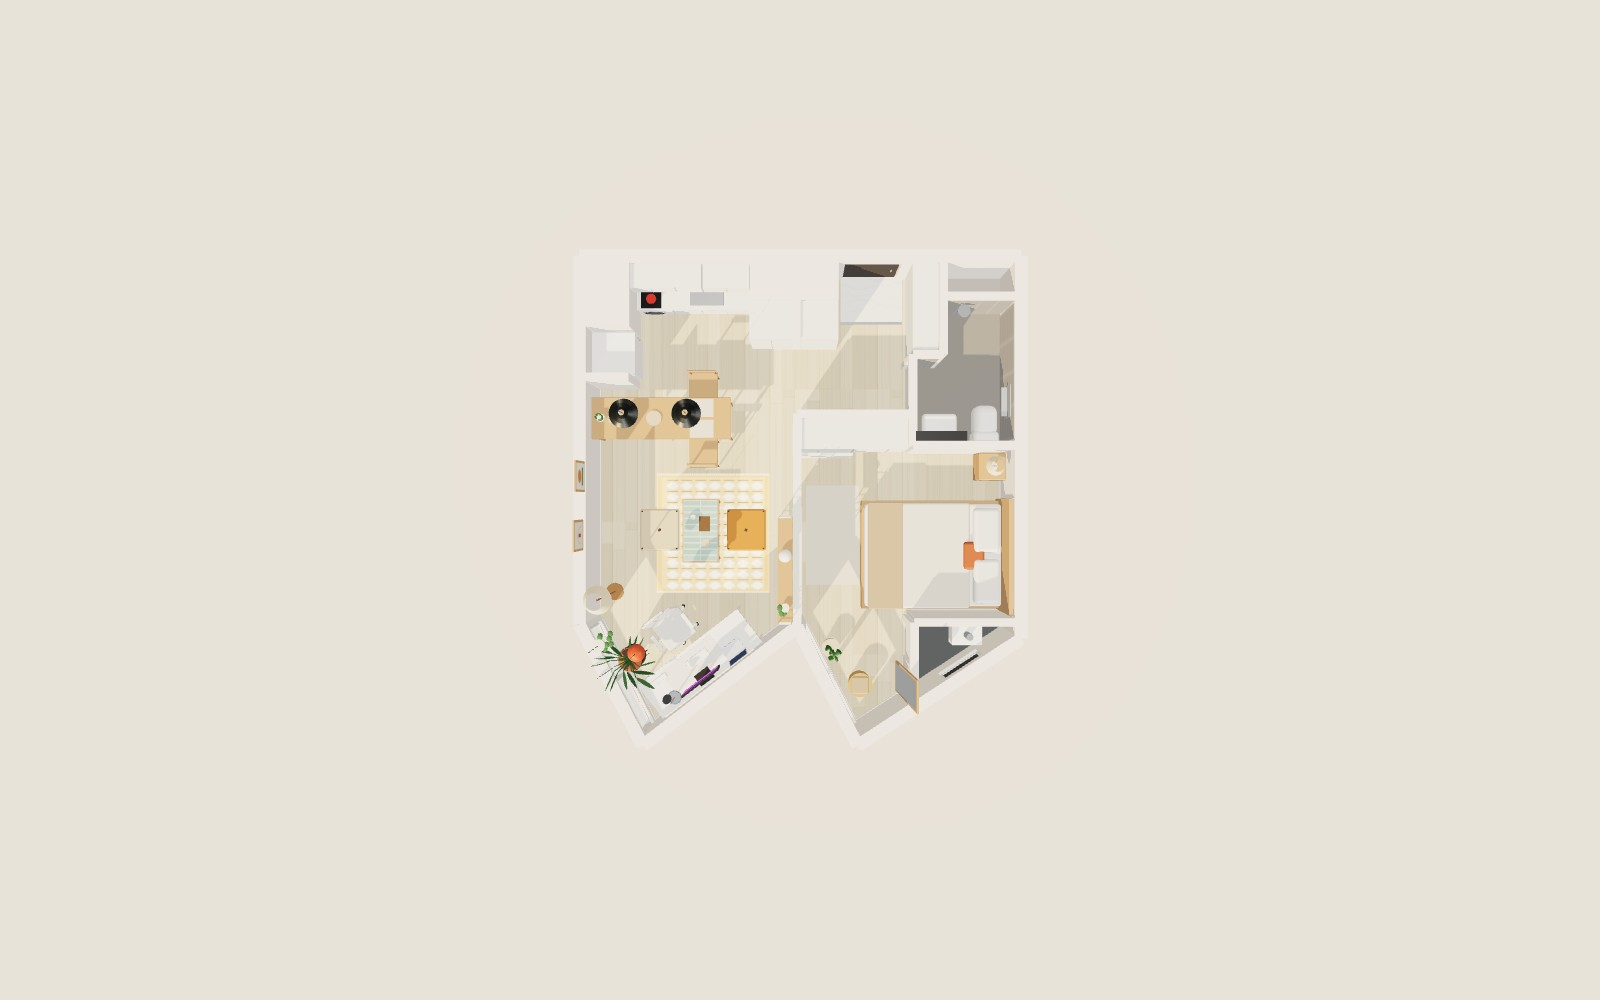
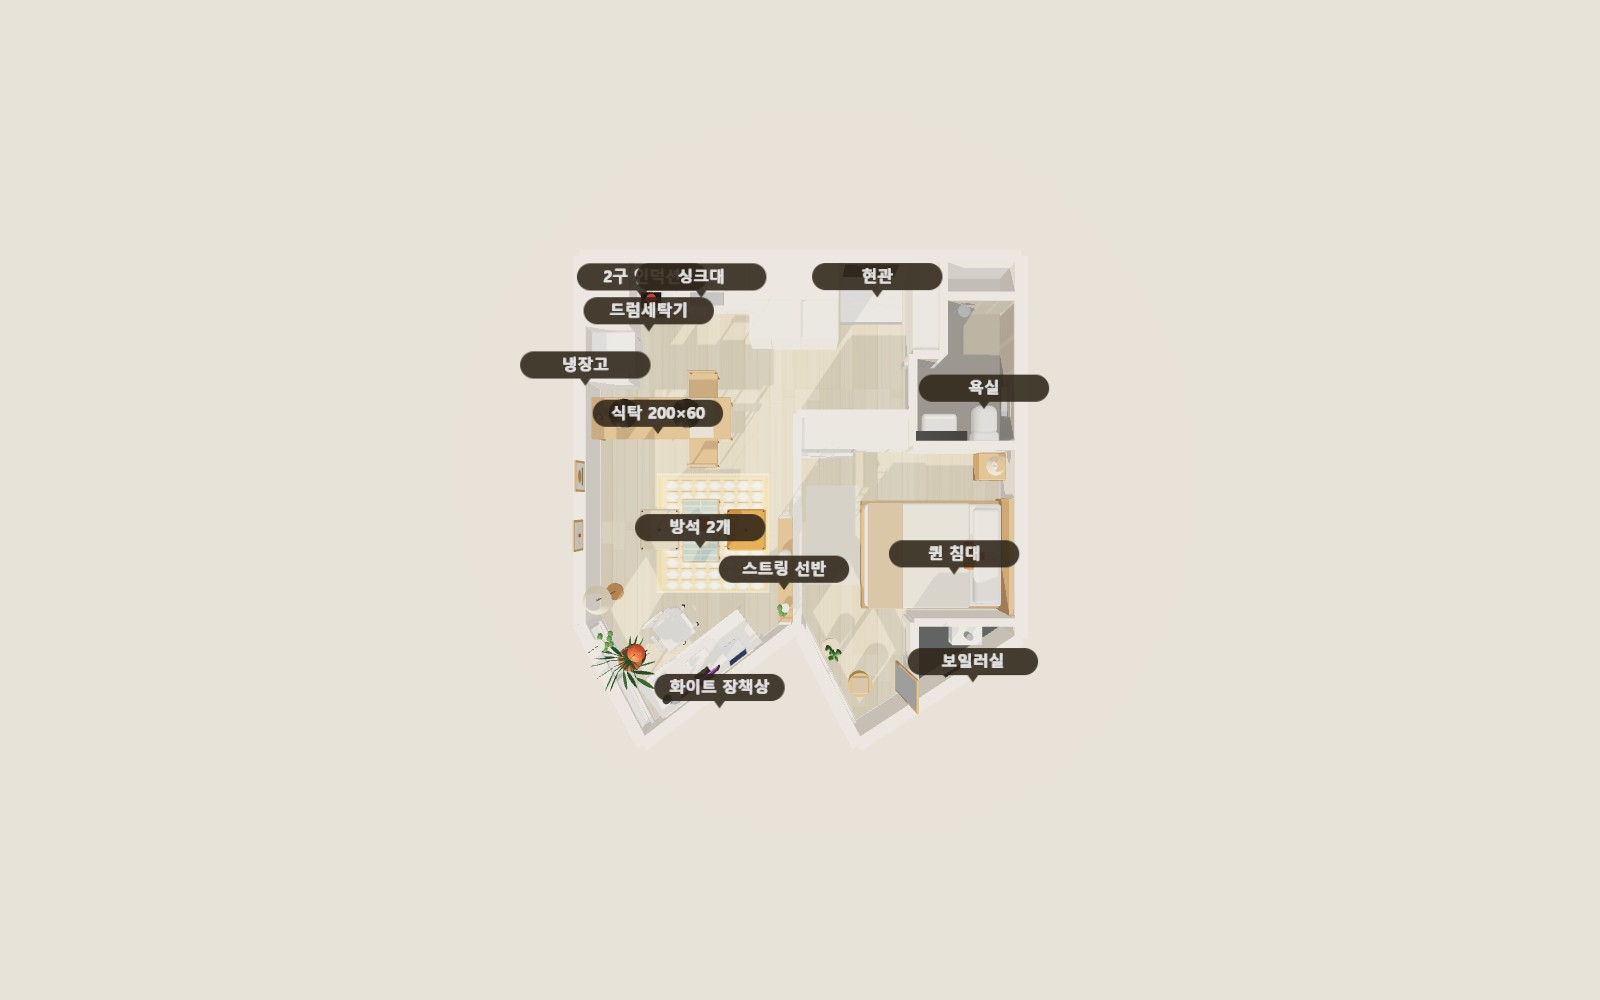
Show built-in drum washer clearly, add kitchen view and labels

diff --git a/index.html b/index.html
@@ -39,7 +39,8 @@
     <button data-v="all" class="on">전체</button>
     <button data-v="living">거실</button>
     <button data-v="desk">책상</button>
-    <button data-v="dining">식탁·주방</button>
+    <button data-v="kitchen">주방·세탁기</button>
+    <button data-v="dining">식탁</button>
     <button data-v="bed">침실</button>
     <button data-v="plan">위에서 보기</button>
   </div>
@@ -47,6 +48,7 @@
     <button id="day" class="on">낮</button>
     <button id="night">밤</button>
     <button id="walls">벽 낮추기</button>
+    <button id="labels" class="on">이름표</button>
   </div>
 </div>
 <div id="legend" class="panel">
@@ -67,7 +69,7 @@
   · 퀸 침대 150×200 (헤드 오른쪽 벽, 아래벽 쪽으로 붙임 → 붙박이장 앞 68cm)<br>
   · 협탁 + 플리츠 스탠드, 러그, 전신거울, 화분
   <div class="sec">기본 설비 (도면 기준)</div>
-  · 주방: 흰 하부장·쿼츠 상판·대리석풍 벽타일, 2구 인덕션 아래 드럼세탁기, 흰 2도어 냉장고<br>· 현관 대리석 타일, 흰 걸레받이·몰딩, 천장 환기장치, 보일러실(루버창)<br>· (블로그 실사진 36형 기준)
+  · 주방: 흰 하부장·쿼츠 상판·대리석풍 벽타일, 2구 인덕션 아래 <b>드럼세탁기 빌트인</b>, 흰 2도어 냉장고<br>· 현관 대리석 타일, 흰 걸레받이·몰딩, 천장 환기장치, 보일러실(루버창)<br>· (블로그 실사진 36형 기준)
 </div>
 <div id="note" class="panel">
   마우스 드래그 = 회전 · 휠 = 확대 · 오른쪽 드래그 = 이동<br>
@@ -419,10 +421,13 @@ wall(746, 224, 746, 340, IN);                                                   
   for (const sx of [-29, 13, 50]) B(g, 0.6, 74, 0.6, mat.seam, sx, 8, 53.4);
   B(g, 174, 8, 1, M("#e6e2da"), 0, 0, 50);
   // 드럼세탁기 (인덕션 아래, 왼쪽 끝)
-  B(g, 56, 80, 1, mat.whiteGloss, -58, 3, 53.6);
-  const dr = CY(g, 14, 14, 2, M("#2f3a40", { roughness: 0.08, metalness: 0.3 }), -58, 34, 54.6, 32); dr.rotation.x = Math.PI / 2;
-  const rg = CY(g, 16.5, 16.5, 1.2, mat.chrome, -58, 34.4, 54.2, 32); rg.rotation.x = Math.PI / 2;
-  B(g, 50, 6, 0.8, M("#e9e9e9"), -58, 72, 54.2);
+  B(g, 58, 82, 4, M("#fdfdfc", { roughness: 0.25 }), -58, 2, 55, 1.5);                        // 세탁기 본체 앞면 (상부장보다 3cm 돌출)
+  const rg = CY(g, 19, 19, 2, mat.chrome, -58, 28, 57.5, 40); rg.rotation.x = Math.PI / 2;    // 도어 링
+  const dr = CY(g, 15.5, 15.5, 2.4, M("#26323a", { roughness: 0.05, metalness: 0.4, transparent: true, opacity: 0.92 }), -58, 27.8, 58.2, 40); dr.rotation.x = Math.PI / 2; // 유리
+  B(g, 54, 9, 1, M("#eeeeee", { roughness: 0.4 }), -58, 70, 57.2);                            // 조작부
+  const dial = CY(g, 3.2, 3.2, 1.6, mat.chrome, -70, 71, 58, 24); dial.rotation.x = Math.PI / 2; // 다이얼
+  B(g, 14, 3.5, 0.6, M("#1c2a33", { roughness: 0.2 }), -50, 72.7, 57.9);                      // 표시창
+  B(g, 8, 3, 2, M("#e9e9e9"), -40, 6, 57);                                                      // 세제 투입구 아래 필터 덮개
   // 쿼츠 상판 + 대리석풍 벽타일
   B(g, 176, 4, 55, mat.quartz, 0, 84, 27.5);
   const bs = new THREE.Mesh(new THREE.PlaneGeometry(cm(174), cm(62)), mat.stone); bs.position.set(0, cm(119), cm(0.5)); g.add(bs);
@@ -765,6 +770,22 @@ railing(441, 742, 530, 912, 30); railing(747, 745, 832, 912, 40);
   for (const [x, y] of [[620, 560], [900, 560], [700, 360]]) { const d = new THREE.Mesh(new THREE.CylinderGeometry(cm(5), cm(5), cm(2), 20), M("#fbfbfb")); d.position.set(cm(x), cm(H - 1), cm(y)); scene.add(d); ceils.push(d); }
 }
 
+// ---------- 이름표 (가전·가구) ----------
+const labels = [];
+function label(text, x, y, h) {
+  const c = document.createElement("canvas"); c.width = 256; c.height = 72;
+  const g = c.getContext("2d");
+  g.fillStyle = "rgba(61,52,40,0.88)"; g.beginPath(); g.roundRect(4, 4, 248, 52, 26); g.fill();
+  g.beginPath(); g.moveTo(118, 56); g.lineTo(138, 56); g.lineTo(128, 70); g.fill();
+  g.fillStyle = "#fff"; g.font = "bold 30px 'Malgun Gothic', sans-serif"; g.textAlign = "center"; g.textBaseline = "middle"; g.fillText(text, 128, 31);
+  const t = new THREE.CanvasTexture(c); t.colorSpace = THREE.SRGBColorSpace;
+  const sp = new THREE.Sprite(new THREE.SpriteMaterial({ map: t, depthTest: false, transparent: true, sizeAttenuation: false }));
+  sp.scale.set(0.14, 0.039, 1); sp.position.set(cm(x), cm(h), cm(y)); sp.renderOrder = 10; scene.add(sp); labels.push(sp);
+}
+label("드럼세탁기", 534, 300, 72); label("2구 인덕션", 532, 262, 118); label("냉장고", 466, 392, 175); label("싱크대", 614, 262, 118);
+label("보일러실", 985, 790, 150); label("화이트 장책상", 640, 830, 125); label("식탁 200×60", 552, 450, 105);
+label("방석 2개", 605, 612, 45); label("퀸 침대", 970, 648, 85); label("스트링 선반", 730, 662, 190); label("현관", 858, 262, 120); label("욕실", 1000, 420, 150);
+
 // ---------- 조명 ----------
 const hemi = new THREE.HemisphereLight("#fff4e2", "#cdb89a", 0.45); scene.add(hemi);
 const amb = new THREE.AmbientLight("#ffffff", 0.25); scene.add(amb);
@@ -798,6 +819,7 @@ const views = {
   living: { pos: [728, 452, 168], tgt: [505, 800, 70] },
   desk:   { pos: [585, 655, 160], tgt: [665, 845, 88] },
   dining: { pos: [705, 610, 160], tgt: [500, 430, 75] },
+  kitchen: { pos: [680, 395, 150], tgt: [545, 255, 55] },
   bed:    { pos: [762, 712, 172], tgt: [1010, 560, 55] },
   plan:   { pos: [751, 568, 1450], tgt: [751, 567, 0], low: true },
 };
@@ -816,6 +838,7 @@ document.querySelectorAll("#views button").forEach((b) => b.addEventListener("cl
 document.getElementById("day").onclick = () => setMode(false);
 document.getElementById("night").onclick = () => setMode(true);
 document.getElementById("walls").onclick = () => setLow(!low);
+document.getElementById("labels").onclick = (e) => { const on = !e.target.classList.contains("on"); e.target.classList.toggle("on", on); labels.forEach((l) => (l.visible = on)); };
 
 function resize() {
   const w = window.innerWidth, h = window.innerHeight;

diff --git a/gallery.html b/gallery.html
@@ -7,6 +7,7 @@
 <figure><figcaption>거실 · 꺾인 벽 책상</figcaption><img src="images/3_living.jpg"></figure>
 <figure><figcaption>화이트 장책상 180cm</figcaption><img src="images/4_desk.jpg"></figure>
 <figure><figcaption>식탁 200×60 (왼쪽 벽에 붙여 길게) · 의자 2</figcaption><img src="images/5_dining.jpg"></figure>
+<figure><figcaption>주방 · 인덕션 아래 드럼세탁기</figcaption><img src="images/8_kitchen.jpg"></figure>
 <figure><figcaption>침실 · 퀸 침대</figcaption><img src="images/6_bed.jpg"></figure>
 <figure><figcaption>거실 · 밤 조명</figcaption><img src="images/7_night.jpg"></figure>
 </body></html>
